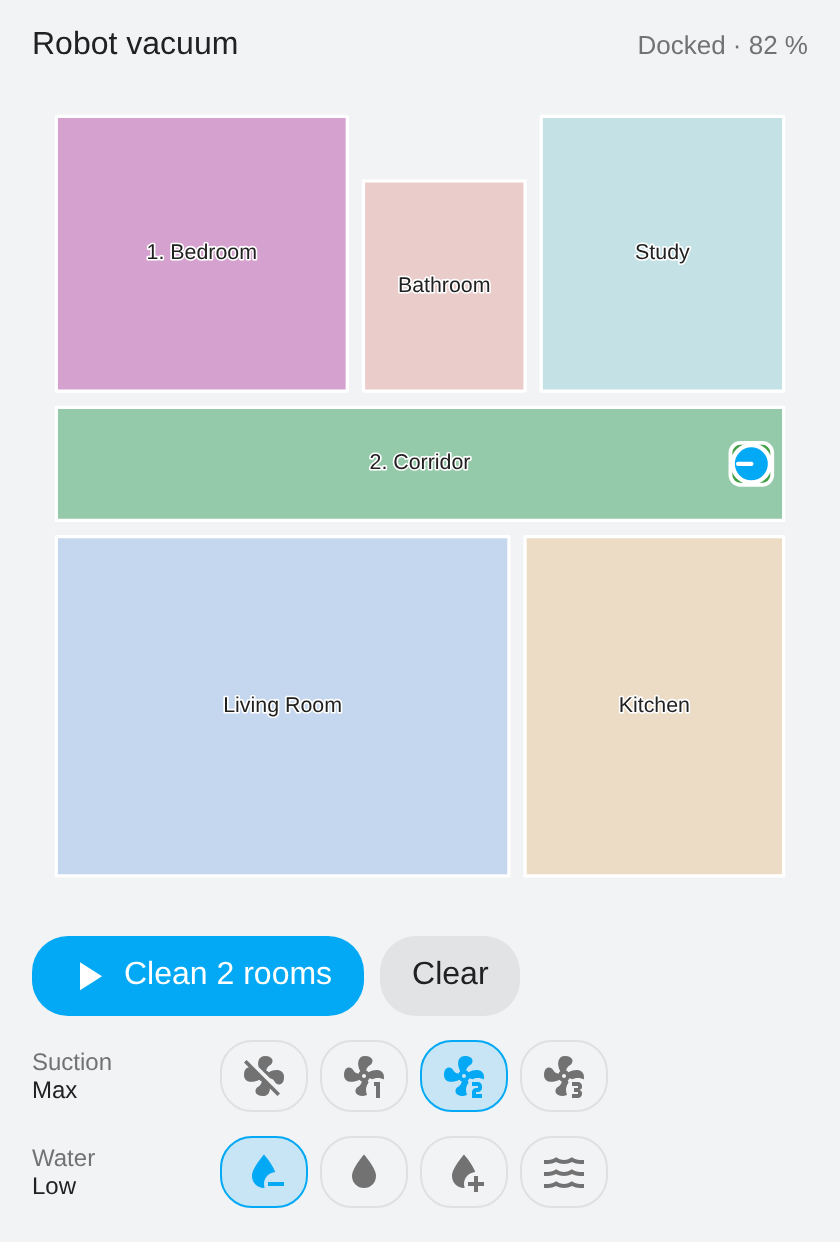
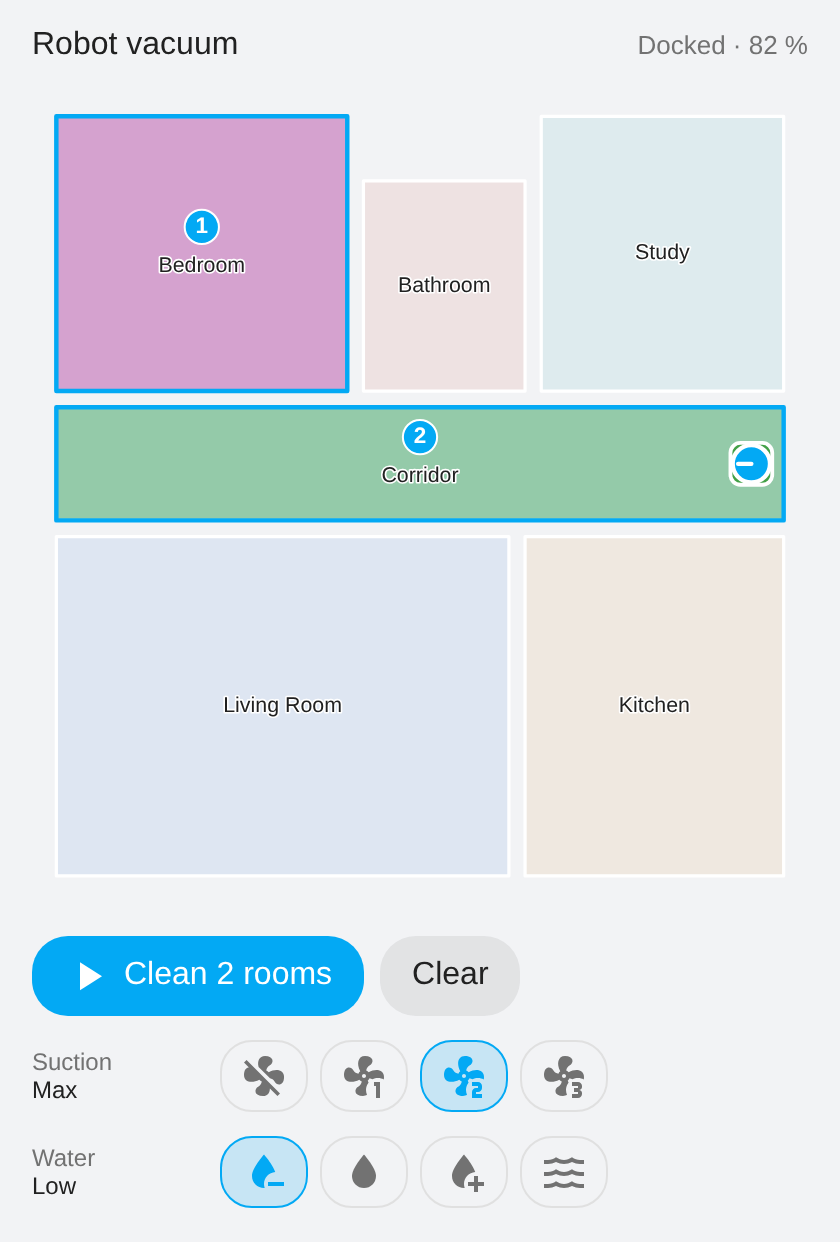
Map card: clearer room selection (dimmed others, outline, numbered badge); 0.2.6
Claude-Session: https://claude.ai/code/session_01TzmQFsLg8hWBQ41oZQZDcF

diff --git a/custom_components/yeedi/www/yeedi-map-card.js b/custom_components/yeedi/www/yeedi-map-card.js
@@ -13,7 +13,7 @@
  * "Clean". The data comes live from the integration (WebSocket "yeedi/map/subscribe").
  */
 
-const CARD_VERSION = '0.2.5';
+const CARD_VERSION = '0.2.6';
 
 const TEXT = {
   en: {
@@ -224,11 +224,16 @@ class YeediMapCard extends HTMLElement {
       const u = Math.max(W, H) / 100; // drawing unit: 1 % of the map
       const font = Math.round(u * 2.6);
       const choose = !moving;
-      let s = `<svg viewBox="0 0 ${W.toFixed(0)} ${H.toFixed(0)}" preserveAspectRatio="xMidYMid meet">`;
+      const hasSel = choose && this._selected.length > 0;
+      let s = `<svg viewBox="0 0 ${W.toFixed(0)} ${H.toFixed(0)}" preserveAspectRatio="xMidYMid meet" class="${hasSel ? 'has-sel' : ''}">`;
       rooms.forEach((room, i) => {
         const sel = this._selected.indexOf(room.id);
         s += `<polygon class="room${choose ? ' pick' : ''}${sel >= 0 ? ' sel' : ''}" data-room="${room.id}"
           points="${P(room.outline)}" style="--c:${PALETTE[i % PALETTE.length]}"/>`;
+      });
+      // Selected rooms get a coloured outline on top of the others.
+      if (hasSel) rooms.forEach((room) => {
+        if (this._selected.includes(room.id)) s += `<polygon class="selring" data-room="${room.id}" points="${P(room.outline)}"/>`;
       });
       if (moving && d.trace && d.trace.length > 1) {
         if (rooms.length) s += `<clipPath id="inside">${rooms.map((x) => `<polygon points="${P(x.outline)}"/>`).join('')}</clipPath>`;
@@ -240,8 +245,16 @@ class YeediMapCard extends HTMLElement {
         const rx = room.outline.map((p) => p[0]), ry = room.outline.map((p) => p[1]);
         const cx = X((Math.min(...rx) + Math.max(...rx)) / 2), cy = Y((Math.min(...ry) + Math.max(...ry)) / 2);
         const sel = this._selected.indexOf(room.id);
-        const label = (sel >= 0 ? `${sel + 1}. ` : '') + this._roomName(room);
-        s += `<text class="name" x="${cx}" y="${cy}" font-size="${font}">${esc(label)}</text>`;
+        const label = this._roomName(room);
+        if (sel >= 0) {
+          // Order badge above the name.
+          const r = font * 0.8, by = cy - font * 1.25;
+          s += `<circle class="badge" cx="${cx}" cy="${by}" r="${r}" data-room="${room.id}"/>
+            <text class="badgetxt" x="${cx}" y="${by}" font-size="${Math.round(font * 1.05)}" data-room="${room.id}">${sel + 1}</text>
+            <text class="name" x="${cx}" y="${cy + font * 0.6}" font-size="${font}">${esc(label)}</text>`;
+        } else {
+          s += `<text class="name" x="${cx}" y="${cy}" font-size="${font}">${esc(label)}</text>`;
+        }
       });
       if (d.dock) {
         s += `<g transform="translate(${X(d.dock.x)},${Y(d.dock.y)})"><g transform="scale(${(u / 75).toFixed(3)})"><rect x="-190" y="-190" width="380" height="380" rx="90" class="dock"/>
@@ -358,6 +371,10 @@ const STYLE = `
   .room.pick { cursor: pointer; }
   .room.pick:hover { fill-opacity: .4; }
   .room.sel { fill-opacity: .62; }
+  .has-sel .room:not(.sel) { fill-opacity: .12; }
+  .selring { fill: none; stroke: var(--primary-color); stroke-width: 55; stroke-linejoin: round; pointer-events: none; }
+  .badge { fill: var(--primary-color); stroke: var(--card-background-color, #fff); stroke-width: 25; }
+  .badgetxt { fill: #fff; font-weight: 700; text-anchor: middle; dominant-baseline: central; pointer-events: none; }
   .name { text-anchor: middle; dominant-baseline: middle; fill: var(--primary-text-color); font-weight: 500;
           paint-order: stroke; stroke: var(--card-background-color, #fff); stroke-width: 40; stroke-linejoin: round; pointer-events: none; }
   .band { fill: none; stroke: var(--primary-color); stroke-opacity: .16; stroke-width: 260; stroke-linecap: round; stroke-linejoin: round; }

diff --git a/CHANGELOG.md b/CHANGELOG.md
@@ -1,6 +1,7 @@
 # Changelog
 
-## 0.2.5
+## 0.2.6
+- Map card: selected rooms stand out (others dimmed, coloured outline, numbered badge).
 - Map card: room names follow the Home Assistant area each room is associated with (vacuum entity settings), then the card's own `room_names`, then the robot.
 - Map card: icon chips for suction and water levels, robot drawn on the dock, visual editor with room names.
 - Room outlines kept in storage and requested again when a cleaning starts.
